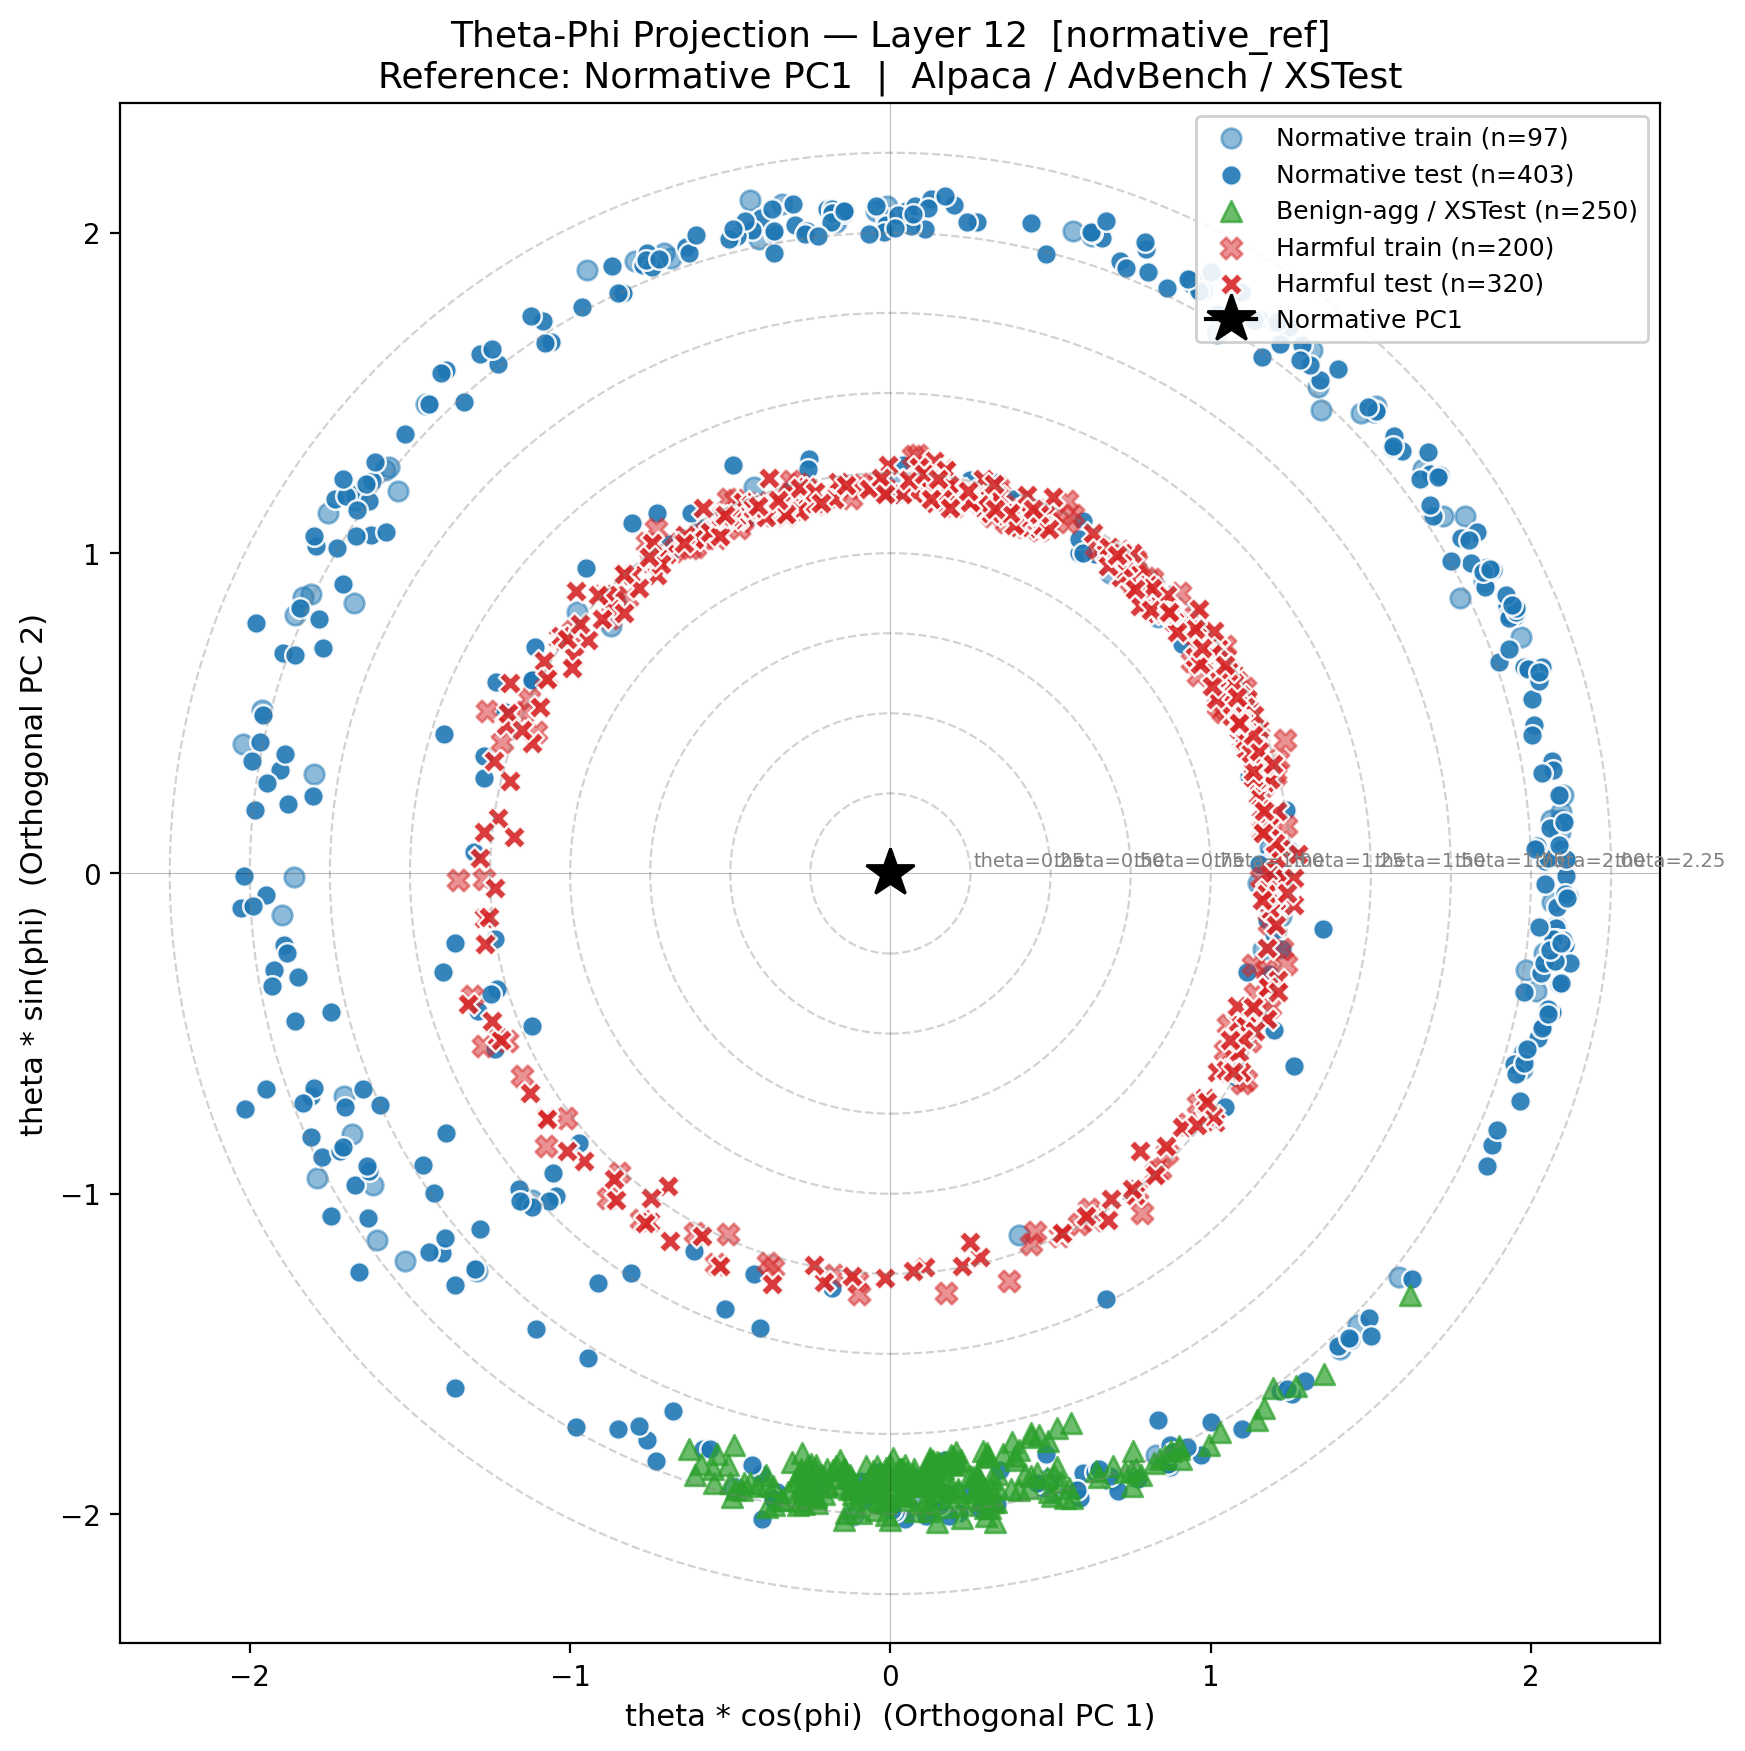
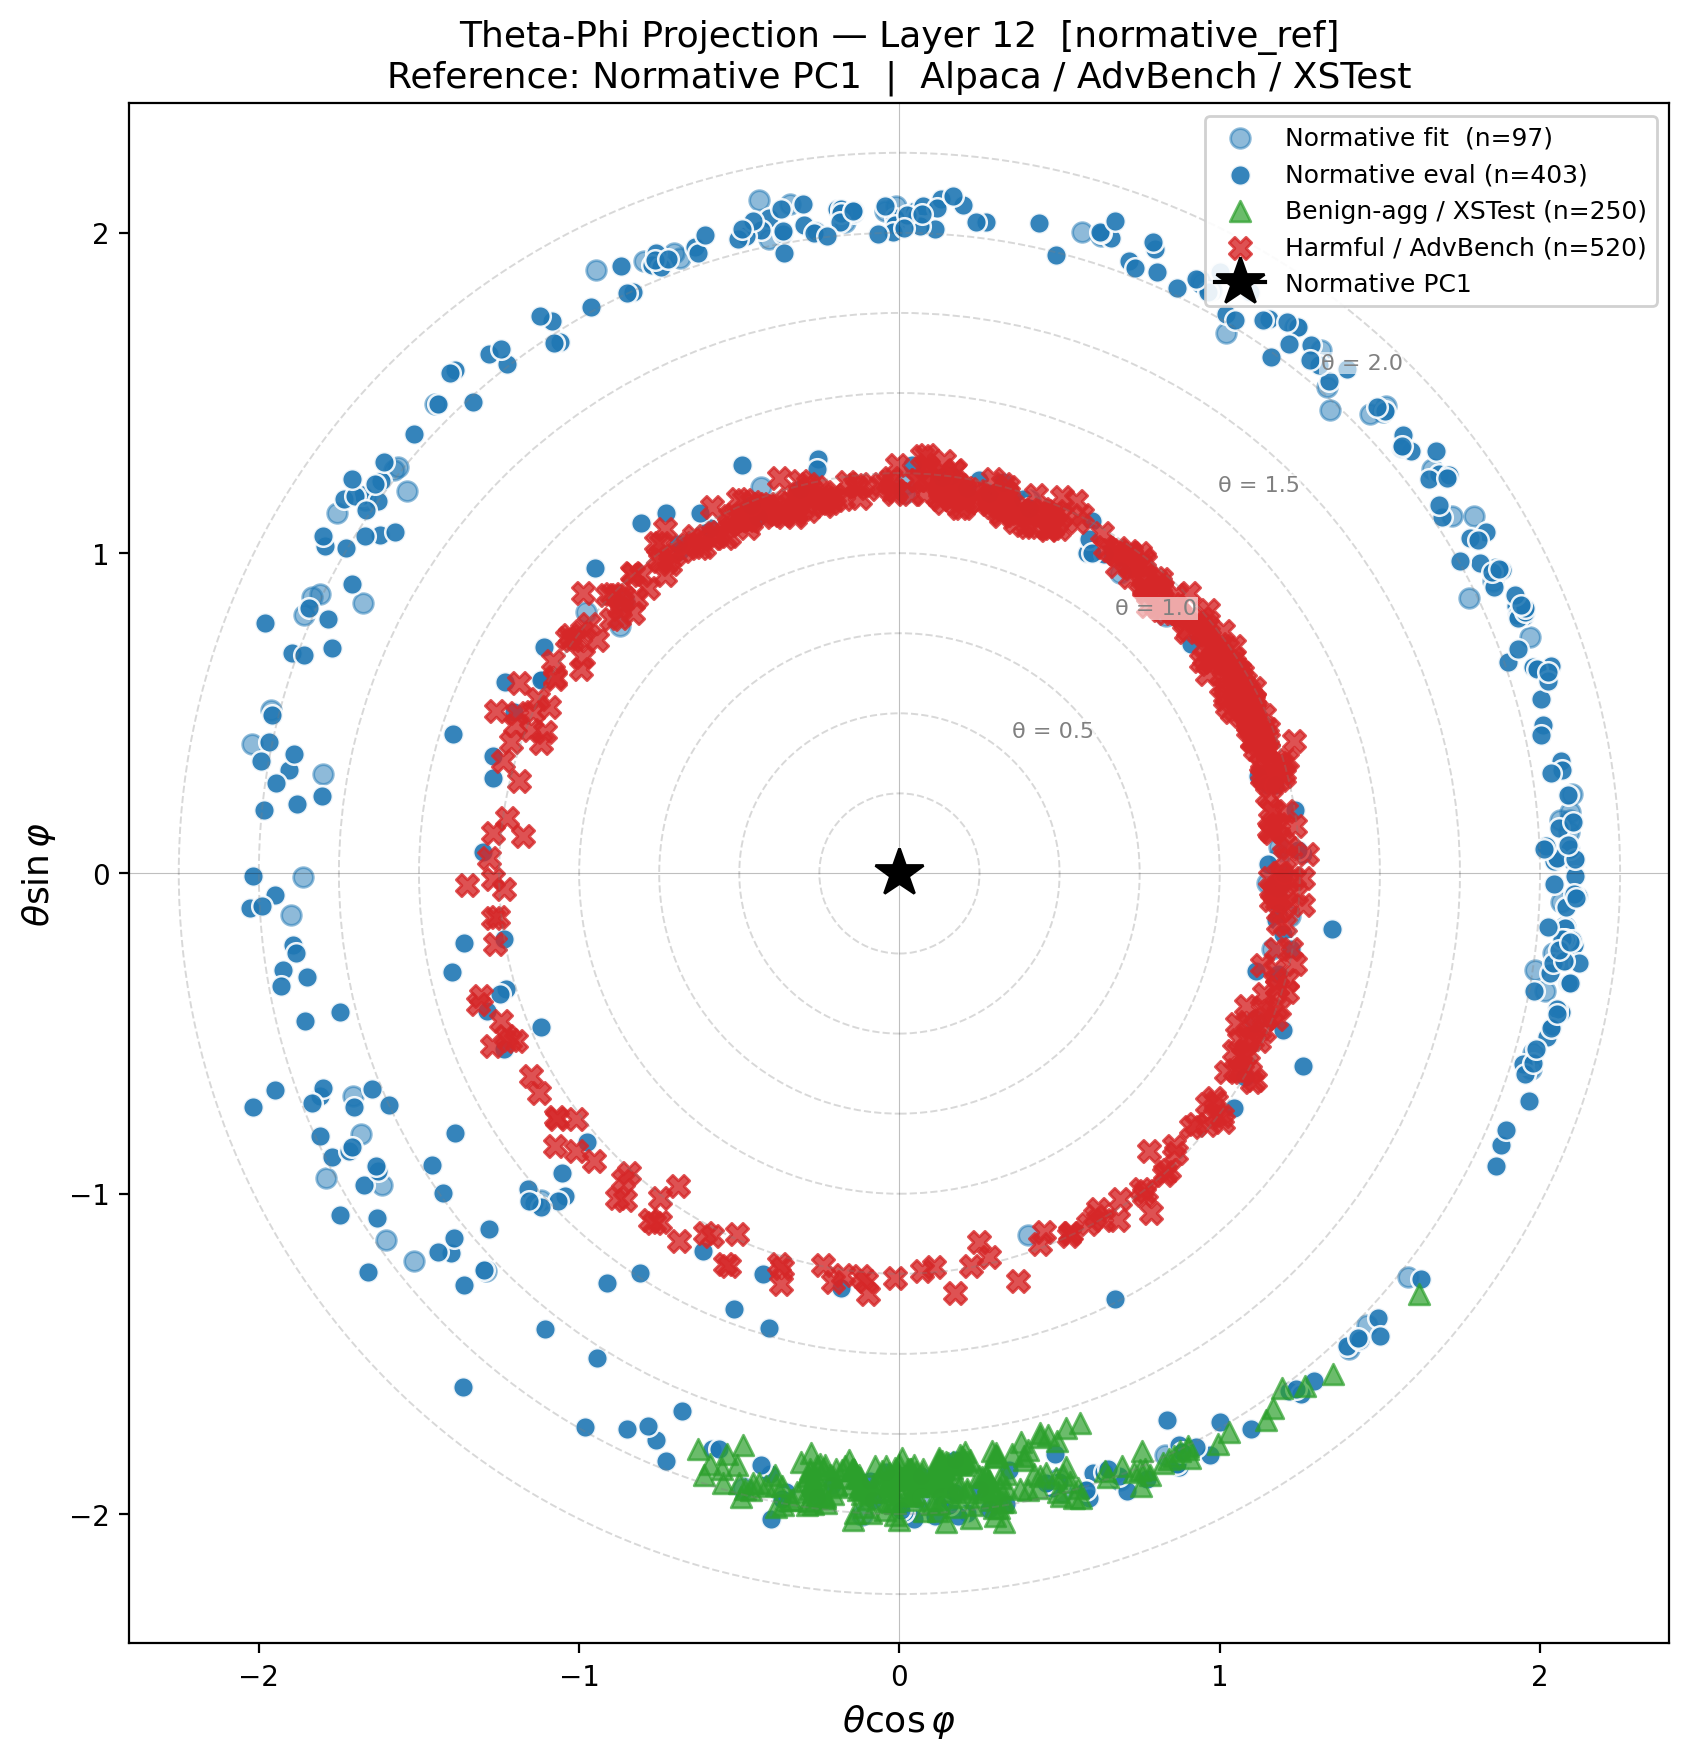
fix: theta-phi legend, labels and axis

diff --git a/scripts/plot_theta_phi_full.py b/scripts/plot_theta_phi_full.py
@@ -202,8 +202,20 @@ def main() -> None:
         # Fit phi basis on the FIT set only (one-shot: no test data used)
         phi_pca = fit_phi_basis(X_fit, pc1_vec)
 
-        # Apply to all categories using the fixed fit-set basis
-        parts = [X_norm_train, X_norm_test, X_harm_train, X_harm_test, X_benign]
+        # For normative_ref, ALL harmful prompts are evaluation data —
+        # none were used for fitting, so the train/test split carries no
+        # meaning for this strategy.  Merge into a single "harm" category
+        # so the legend truthfully reflects the experimental design.
+        # For harmful_ref, keep the split to show PC1 generalises to held-out
+        # harmful examples.
+        if strategy == "normative_ref":
+            X_harm_all = torch.cat([X_harm_train, X_harm_test], dim=0)
+            parts    = [X_norm_train, X_norm_test, X_harm_all, X_benign]
+            cat_names = ["norm_train", "norm_test", "harm", "benign"]
+        else:
+            parts    = [X_norm_train, X_norm_test, X_harm_train, X_harm_test, X_benign]
+            cat_names = ["norm_train", "norm_test", "harm_train", "harm_test", "benign"]
+
         sizes = [x.shape[0] for x in parts]
         X_all = torch.cat(parts, dim=0)
 
@@ -211,7 +223,6 @@ def main() -> None:
         theta_all, phi_all = compute_theta_phi(X_all, pc1_vec, phi_pca)
 
         idx = np.cumsum([0] + sizes)
-        cat_names = ["norm_train", "norm_test", "harm_train", "harm_test", "benign"]
         theta_by_cat = {n: theta_all[idx[i]:idx[i+1]] for i, n in enumerate(cat_names)}
         phi_by_cat   = {n: phi_all[idx[i]:idx[i+1]]   for i, n in enumerate(cat_names)}
 
@@ -227,10 +238,11 @@ def _plot(
     args:        argparse.Namespace,
 ) -> None:
     """
-    Render the theta-phi plane.  Each point is at (theta*cos(phi), theta*sin(phi)).
-    Shows normative train/test, harmful train/test, and benign-agg.
-    Harmful train points are filled; harmful test are outlined to verify
-    the PC1 direction generalises to held-out harmful examples.
+    Render the theta-phi plane.  Each point is at (θ·cos φ, θ·sin φ).
+
+    For normative_ref: all harmful prompts shown as a single class (none used
+    for fitting).  For harmful_ref: harmful split into train/test to verify
+    that the PC1 direction generalises to held-out harmful examples.
     """
     fig, ax = plt.subplots(figsize=(10, 10))
 
@@ -238,49 +250,78 @@ def _plot(
         t, p = theta[cat], phi[cat]
         return t * np.cos(p), t * np.sin(p)
 
+    # ---- Normative (always shown as train / test split) ----
     px, py = cart("norm_train")
     ax.scatter(px, py, c="#1f77b4", s=50, alpha=0.5, marker="o",
-               label=f"Normative train (n={len(px)})")
+               label=f"Normative fit  (n={len(px)})")
     px, py = cart("norm_test")
     ax.scatter(px, py, c="#1f77b4", s=55, alpha=0.9, marker="o",
                edgecolors="white", linewidths=0.9,
-               label=f"Normative test (n={len(px)})")
+               label=f"Normative eval (n={len(px)})")
 
+    # ---- Benign-aggressive ----
     px, py = cart("benign")
     ax.scatter(px, py, c="#2ca02c", s=55, alpha=0.7, marker="^",
                label=f"Benign-agg / XSTest (n={len(px)})")
 
-    px, py = cart("harm_train")
-    ax.scatter(px, py, c="#d62728", s=60, alpha=0.5, marker="X",
-               label=f"Harmful train (n={len(px)})")
-    px, py = cart("harm_test")
-    ax.scatter(px, py, c="#d62728", s=70, alpha=0.9, marker="X",
-               edgecolors="white", linewidths=0.9,
-               label=f"Harmful test (n={len(px)})")
+    # ---- Harmful: single class for normative_ref, split for harmful_ref ----
+    if "harm" in theta:
+        # normative_ref: all 520 harmful prompts are eval data
+        px, py = cart("harm")
+        ax.scatter(px, py, c="#d62728", s=65, alpha=0.8, marker="X",
+                   label=f"Harmful / AdvBench (n={len(px)})")
+    else:
+        # harmful_ref: show fit vs held-out to verify generalisation
+        px, py = cart("harm_train")
+        ax.scatter(px, py, c="#d62728", s=60, alpha=0.4, marker="X",
+                   label=f"Harmful fit  (n={len(px)})")
+        px, py = cart("harm_test")
+        ax.scatter(px, py, c="#d62728", s=70, alpha=0.9, marker="X",
+                   edgecolors="white", linewidths=0.9,
+                   label=f"Harmful eval (n={len(px)})")
 
+    # ---- Reference direction marker ----
     ax.plot(0, 0, marker="*", markersize=18, color="black",
             zorder=10, label=ref_label)
 
-    max_theta = float(np.max(np.concatenate(list(theta.values()))))
+    # ---- Concentric theta circles — sparse labels at 50° to avoid overlap ----
+    all_theta = np.concatenate(list(theta.values()))
+    max_theta = float(np.max(all_theta))
+
+    # Draw a thin circle at every 0.25 rad; label only every 0.5 rad
+    label_angle_rad = np.radians(50)   # upper-right diagonal — away from data
+    cos_a, sin_a = np.cos(label_angle_rad), np.sin(label_angle_rad)
+
     for r in np.arange(0.25, max_theta + 0.25, 0.25):
         circle = mpatches.Circle((0, 0), r, color="gray", fill=False,
-                                  linestyle="--", alpha=0.35, linewidth=0.8)
+                                  linestyle="--", alpha=0.30, linewidth=0.7)
         ax.add_patch(circle)
-        ax.text(r + 0.01, 0.01, f"theta={r:.2f}", color="gray", fontsize=7,
-                va="bottom")
+        # Only label multiples of 0.5
+        if abs(round(r * 2) - r * 2) < 1e-9:   # r is a multiple of 0.5
+            ax.text(r * cos_a + 0.03, r * sin_a + 0.03,
+                    f"θ = {r:.1f}",
+                    color="gray", fontsize=8, ha="left", va="bottom",
+                    bbox=dict(facecolor="white", edgecolor="none",
+                              alpha=0.6, pad=0.5))
 
+    # ---- Axes and formatting ----
     ax.axhline(0, color="black", linewidth=0.4, alpha=0.25)
     ax.axvline(0, color="black", linewidth=0.4, alpha=0.25)
     lim = max_theta * 1.12
-    ax.set_xlim(-lim, lim);  ax.set_ylim(-lim, lim)
+    ax.set_xlim(-lim, lim)
+    ax.set_ylim(-lim, lim)
     ax.set_aspect("equal", adjustable="box")
+
     ax.set_title(
         f"Theta-Phi Projection — Layer {layer}  [{strategy}]\n"
         f"Reference: {ref_label}  |  Alpaca / AdvBench / XSTest",
         fontsize=13,
     )
-    ax.set_xlabel("theta * cos(phi)  (Orthogonal PC 1)", fontsize=11)
-    ax.set_ylabel("theta * sin(phi)  (Orthogonal PC 2)", fontsize=11)
+    # Axis labels: θ cos φ and θ sin φ are the correct Cartesian coordinates
+    # of the polar representation (θ = angular deviation, φ = azimuthal angle
+    # in the 2D orthogonal complement of the reference direction).
+    ax.set_xlabel(r"$\theta \cos \varphi$", fontsize=13)
+    ax.set_ylabel(r"$\theta \sin \varphi$", fontsize=13)
     ax.legend(loc="upper right", fontsize=9, framealpha=0.9)
 
     out = str(figures_dir / f"theta_phi_{strategy}_layer{layer}.png")
@@ -288,6 +329,7 @@ def _plot(
     plt.close()
     print(f"Saved -> {out}")
 
+    # ---- Summary statistics ----
     print(f"  {'Category':<14}  {'mean':>6}  {'median':>6}  {'std':>6}  n")
     for cat, t in theta.items():
         print(f"  {cat:<14}  {t.mean():>6.3f}  {float(np.median(t)):>6.3f}  "

diff --git a/scripts/plot_theta_phi_plane.py b/scripts/plot_theta_phi_plane.py
@@ -139,8 +139,8 @@ def main():
     plt.gca().set_aspect('equal', adjustable='box')
     
     plt.title(f"Theta-Phi Orthogonal Projection Plane (Layer {TARGET_LAYER})\nRadius = Theta (angular dev), Angle = Phi (PCA variance)")
-    plt.xlabel("Orthogonal PC 1")
-    plt.ylabel("Orthogonal PC 2")
+    plt.xlabel("θ × cos(φ)")
+    plt.ylabel("θ × sin(φ)")
     plt.legend(loc='upper right')
     plt.grid(False)
     

diff --git a/scripts/evaluate_biomarker.py b/scripts/evaluate_biomarker.py
@@ -780,7 +780,7 @@ def plot_precision_recall(
     ax.set_ylabel("Precision")
     ax.set_title(f"Precision-Recall Curves — Layer {best_layer}, K={best_K}\n"
                  f"Strategy: {strategy}  (dotted lines = chance precision)")
-    ax.legend(fontsize=9, loc="upper right")
+    ax.legend(fontsize=9, loc="lower right")
     ax.set_xlim(0.0, 1.02)
     ax.set_ylim(0.0, 1.05)
     ax.grid(True, alpha=0.3)